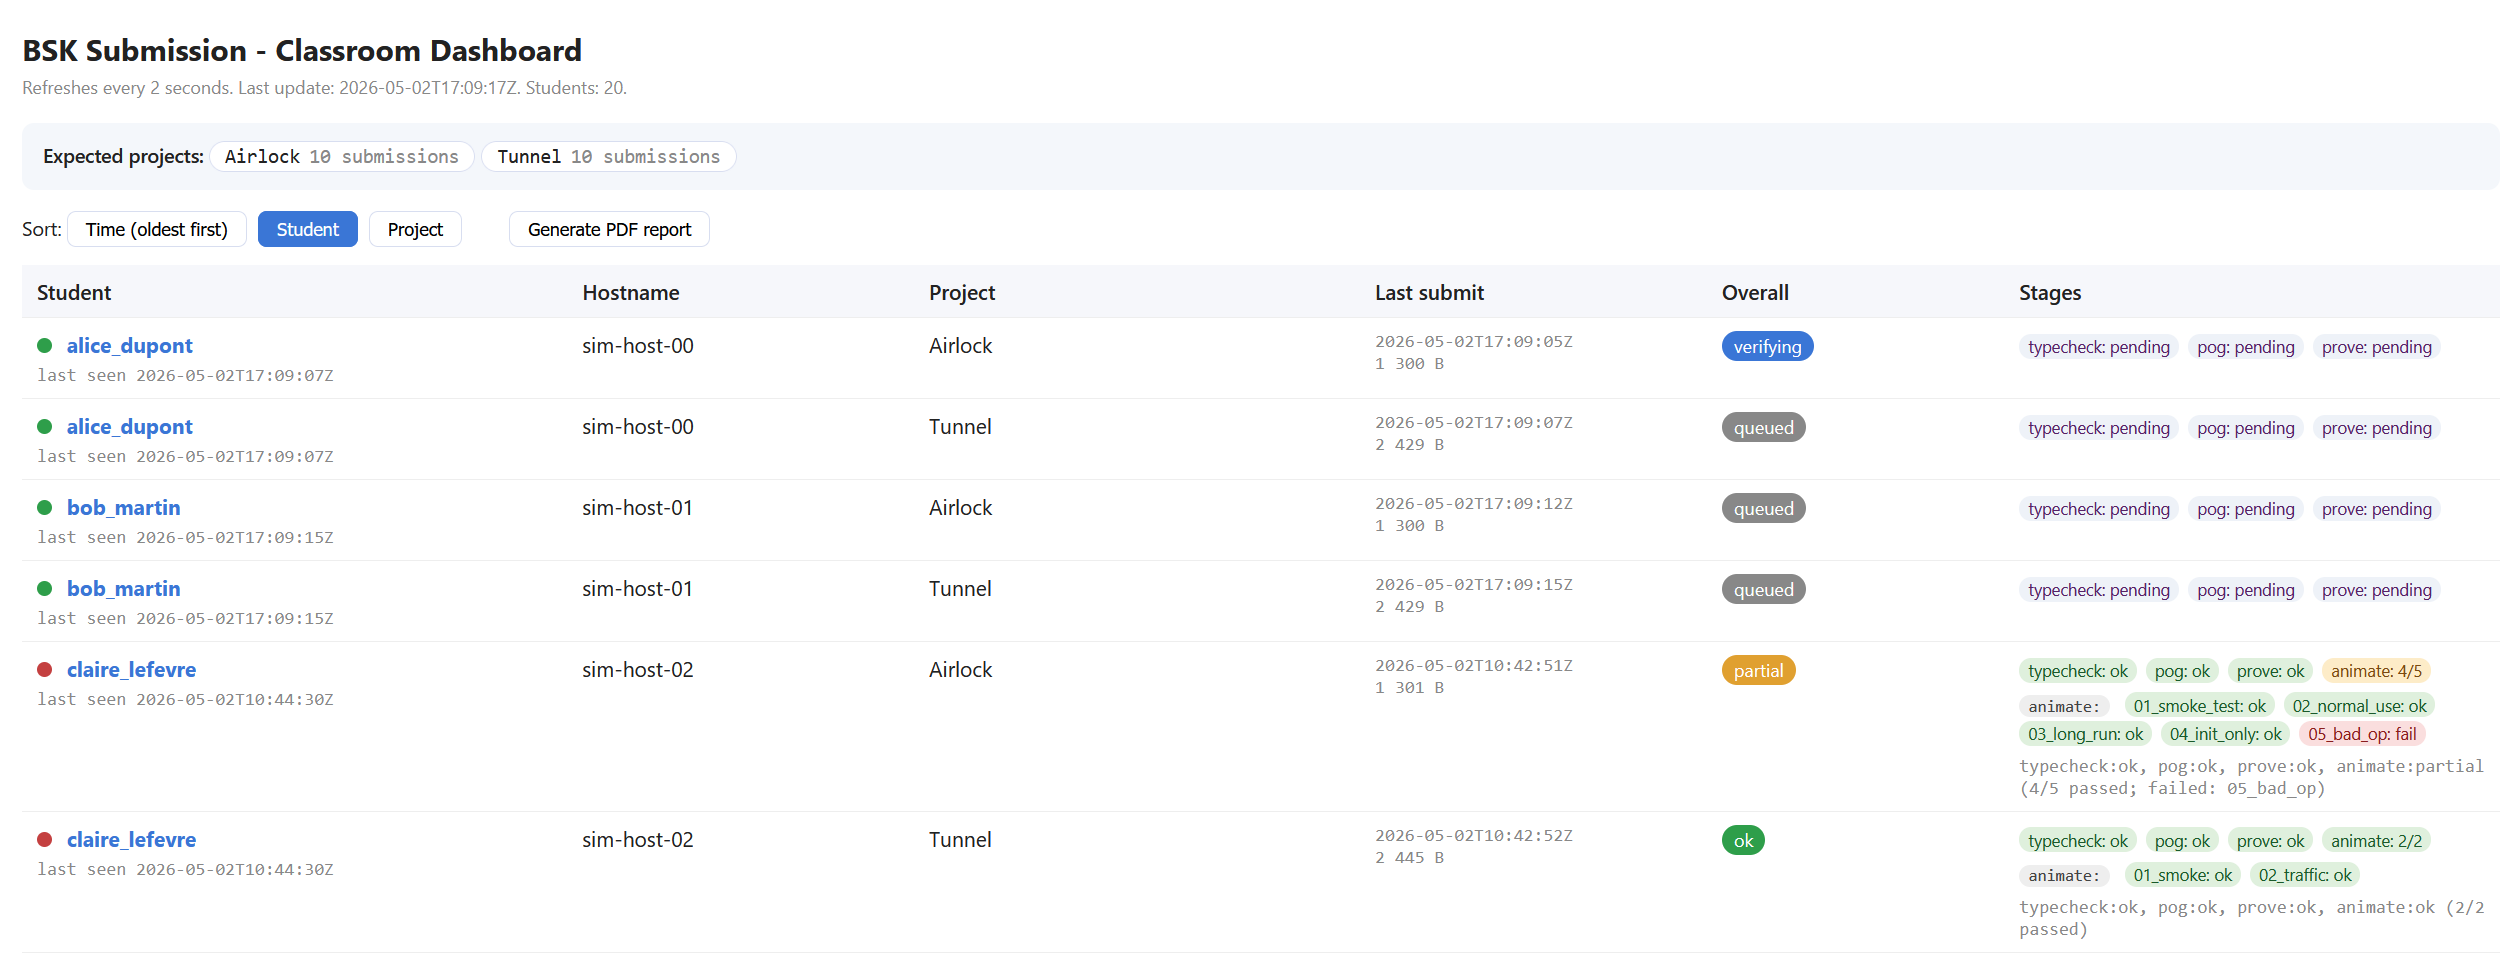
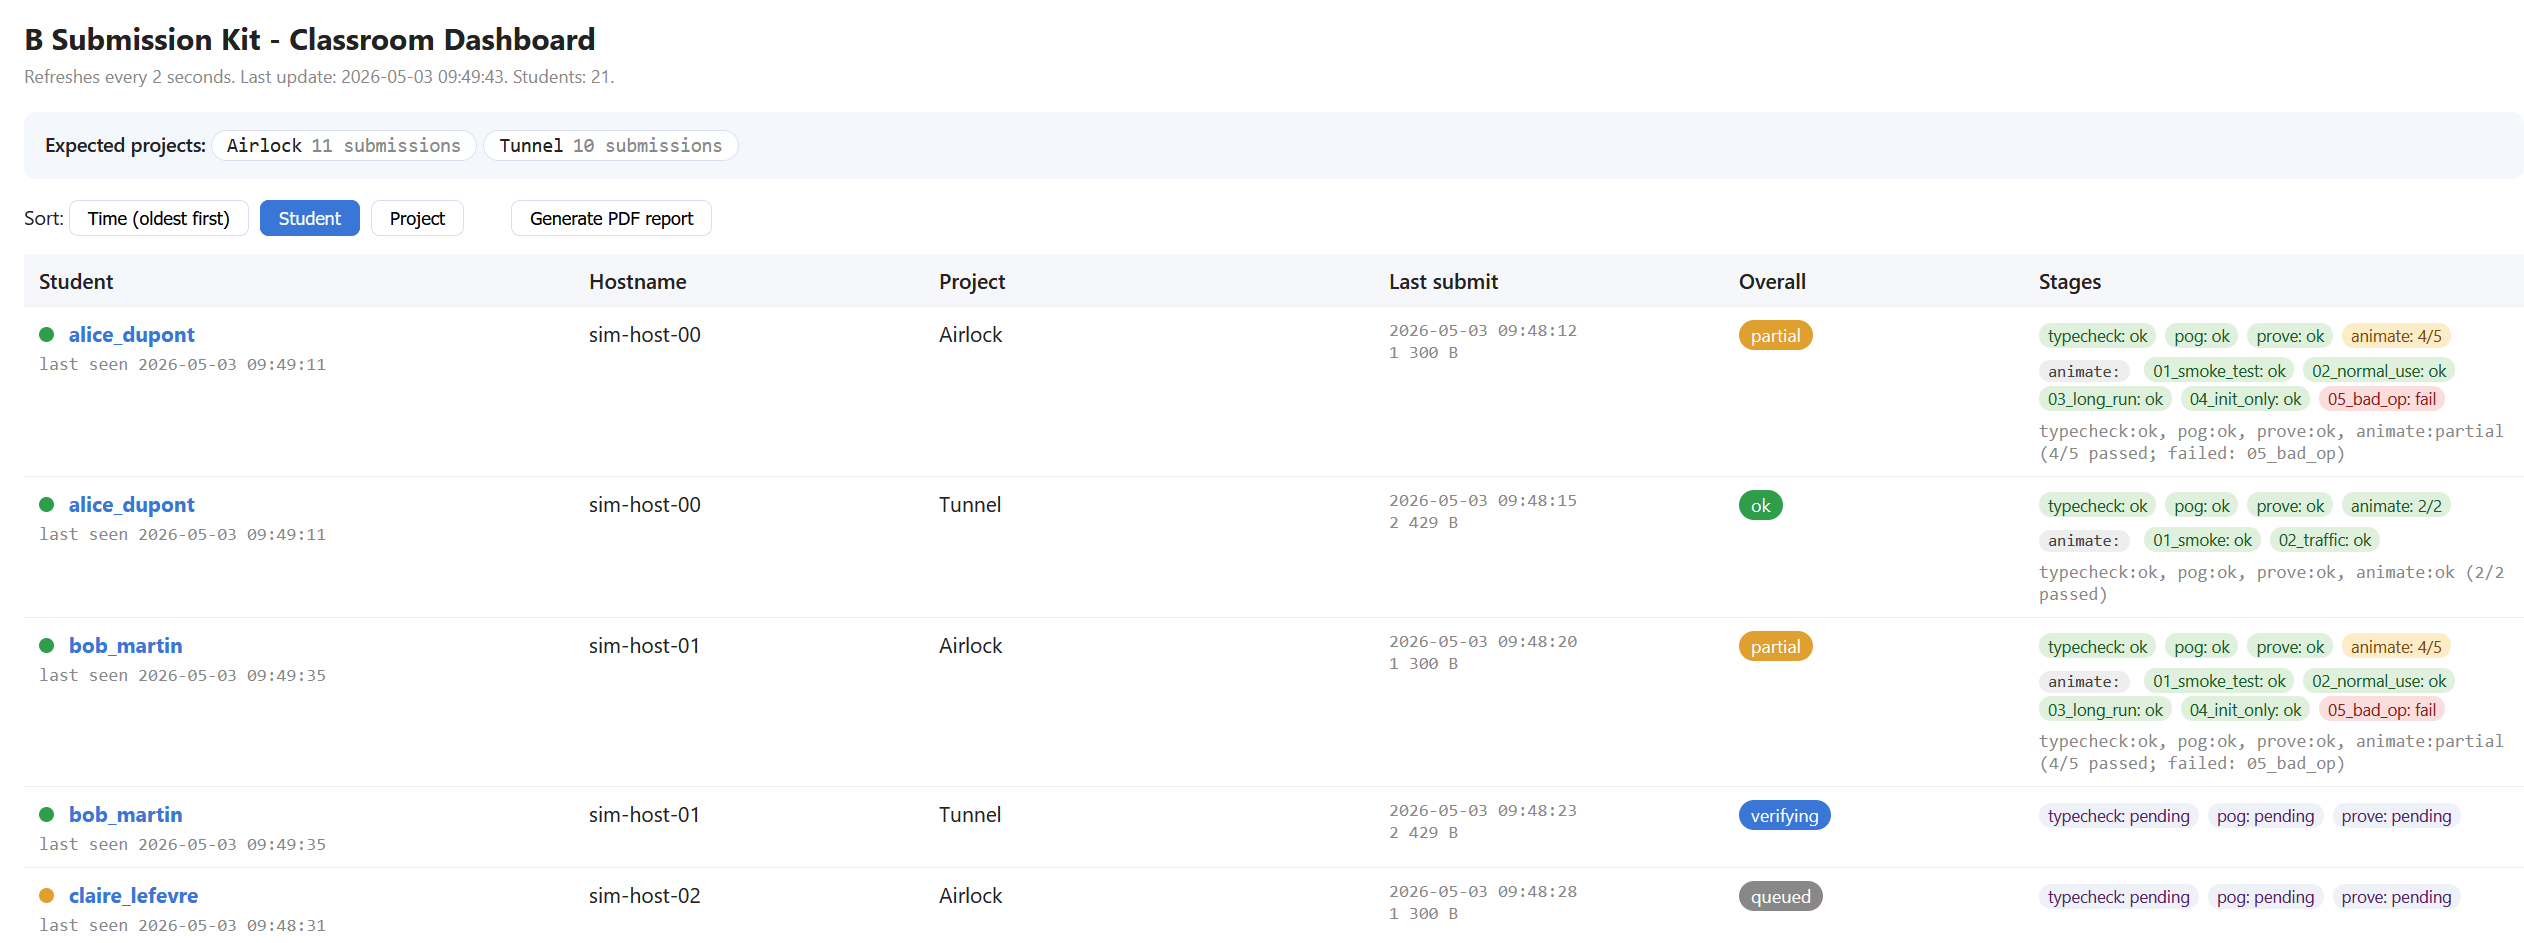
Rename dashboard heading and refresh overview screenshot
- receiver/dashboard.html: title and H1 now read "B Submission Kit -
  Classroom Dashboard" instead of the abbreviated "BSK Submission".
- docs/screenshots/dashboard_overview.png: refreshed against the current
  GUI (local timestamps, expected-projects banner, new title).
- docs/user_manual.pdf: rebuilt via docs/_build_pdf.py to embed the
  updated screenshot.

Note: dashboard_partial.png still pending refresh.

diff --git a/receiver/dashboard.html b/receiver/dashboard.html
@@ -2,7 +2,7 @@
 <html lang="en">
 <head>
 <meta charset="utf-8">
-<title>BSK Submission - Classroom Dashboard</title>
+<title>B Submission Kit - Classroom Dashboard</title>
 <style>
   :root { --g: #2e9e4a; --a: #e0a030; --r: #c44040; --ink: #222; --fade: #888; --hi: #f6f7fb; }
   body { font-family: system-ui, sans-serif; margin: 0; padding: 20px; color: var(--ink); }
@@ -47,7 +47,7 @@
 </head>
 <body>
 
-<h1>BSK Submission - Classroom Dashboard</h1>
+<h1>B Submission Kit - Classroom Dashboard</h1>
 <div class="sub">
   Refreshes every 2 seconds. Last update: <span id="ts">-</span>. Students: <span id="count">0</span>.
 </div>